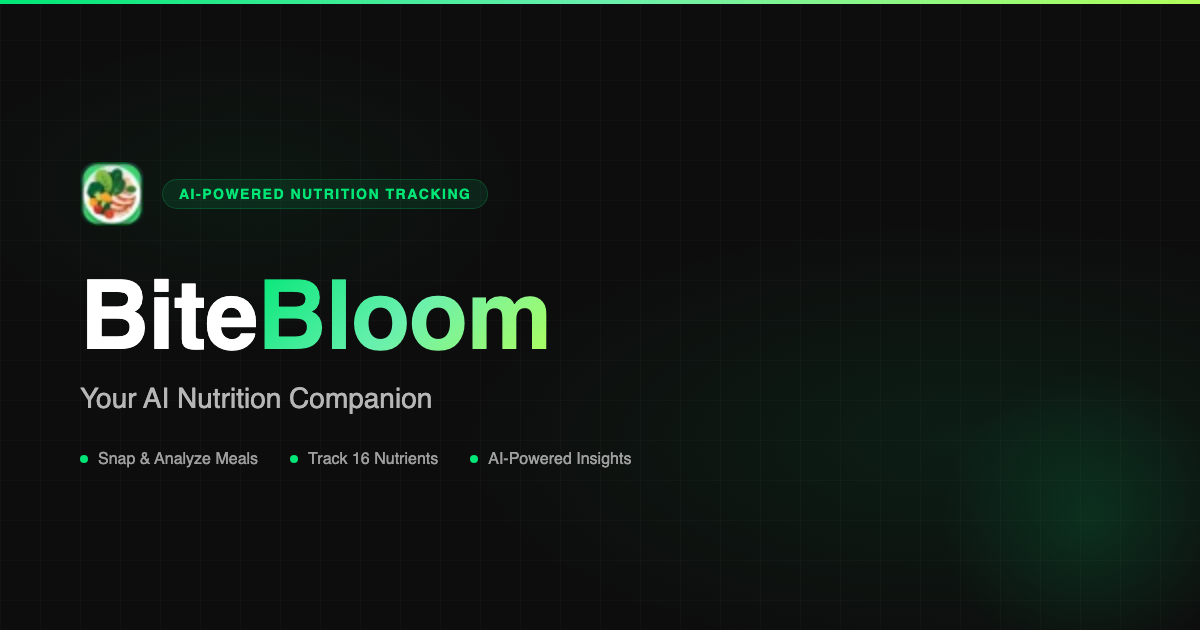
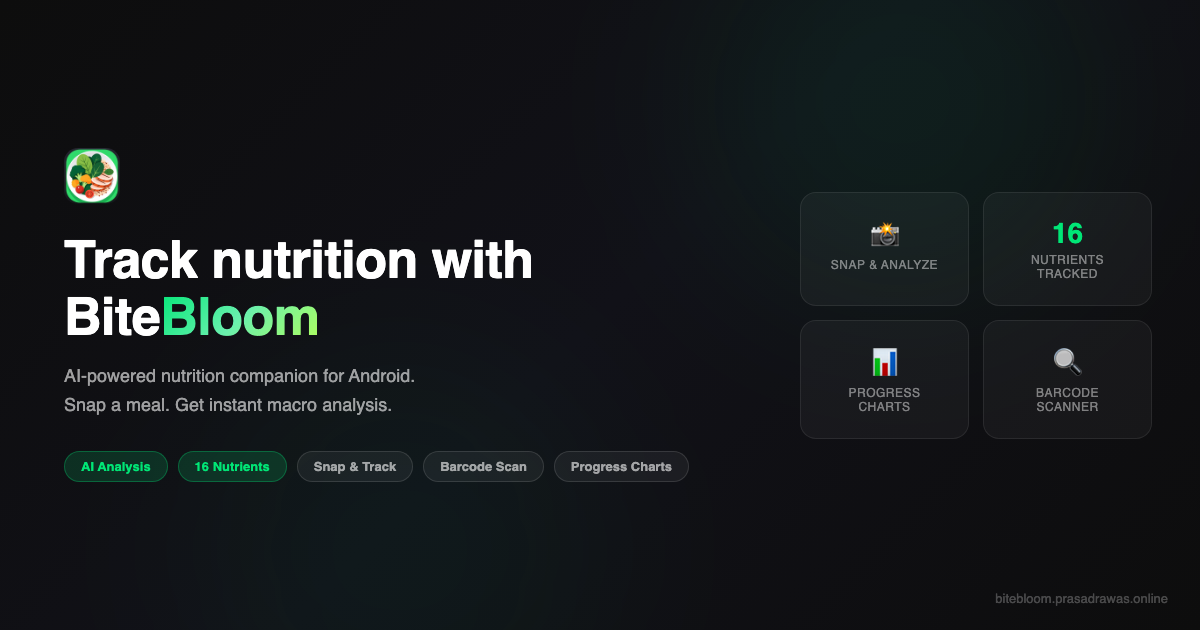
Add OG image and feature graphic, fix twitter:image SEO
- Regenerate og-image.png with app feature-focused stat cards
- Add feature-graphic.png (1024x500) for Play Console
- Add missing twitter:image meta tag to privacy, terms, disclaimer
- Remove HTML templates used for image generation

diff --git a/docs/disclaimer.html b/docs/disclaimer.html
@@ -24,6 +24,7 @@
   <meta name="twitter:card" content="summary_large_image">
   <meta name="twitter:title" content="Disclaimer — BiteBloom">
   <meta name="twitter:description" content="Important health and accuracy information about BiteBloom's AI nutrition analysis.">
+  <meta name="twitter:image" content="https://bitebloom.prasadrawas.online/og-image.png">
 
   <title>Disclaimer — BiteBloom</title>
   <link rel="icon" type="image/png" href="favicon.png">

diff --git a/docs/privacy.html b/docs/privacy.html
@@ -24,6 +24,7 @@
   <meta name="twitter:card" content="summary_large_image">
   <meta name="twitter:title" content="Privacy Policy — BiteBloom">
   <meta name="twitter:description" content="Learn how BiteBloom collects, uses, and protects your data.">
+  <meta name="twitter:image" content="https://bitebloom.prasadrawas.online/og-image.png">
 
   <title>Privacy Policy — BiteBloom</title>
   <link rel="icon" type="image/png" href="favicon.png">

diff --git a/docs/terms.html b/docs/terms.html
@@ -24,6 +24,7 @@
   <meta name="twitter:card" content="summary_large_image">
   <meta name="twitter:title" content="Terms of Service — BiteBloom">
   <meta name="twitter:description" content="Read the terms and conditions for using the BiteBloom app.">
+  <meta name="twitter:image" content="https://bitebloom.prasadrawas.online/og-image.png">
 
   <title>Terms of Service — BiteBloom</title>
   <link rel="icon" type="image/png" href="favicon.png">